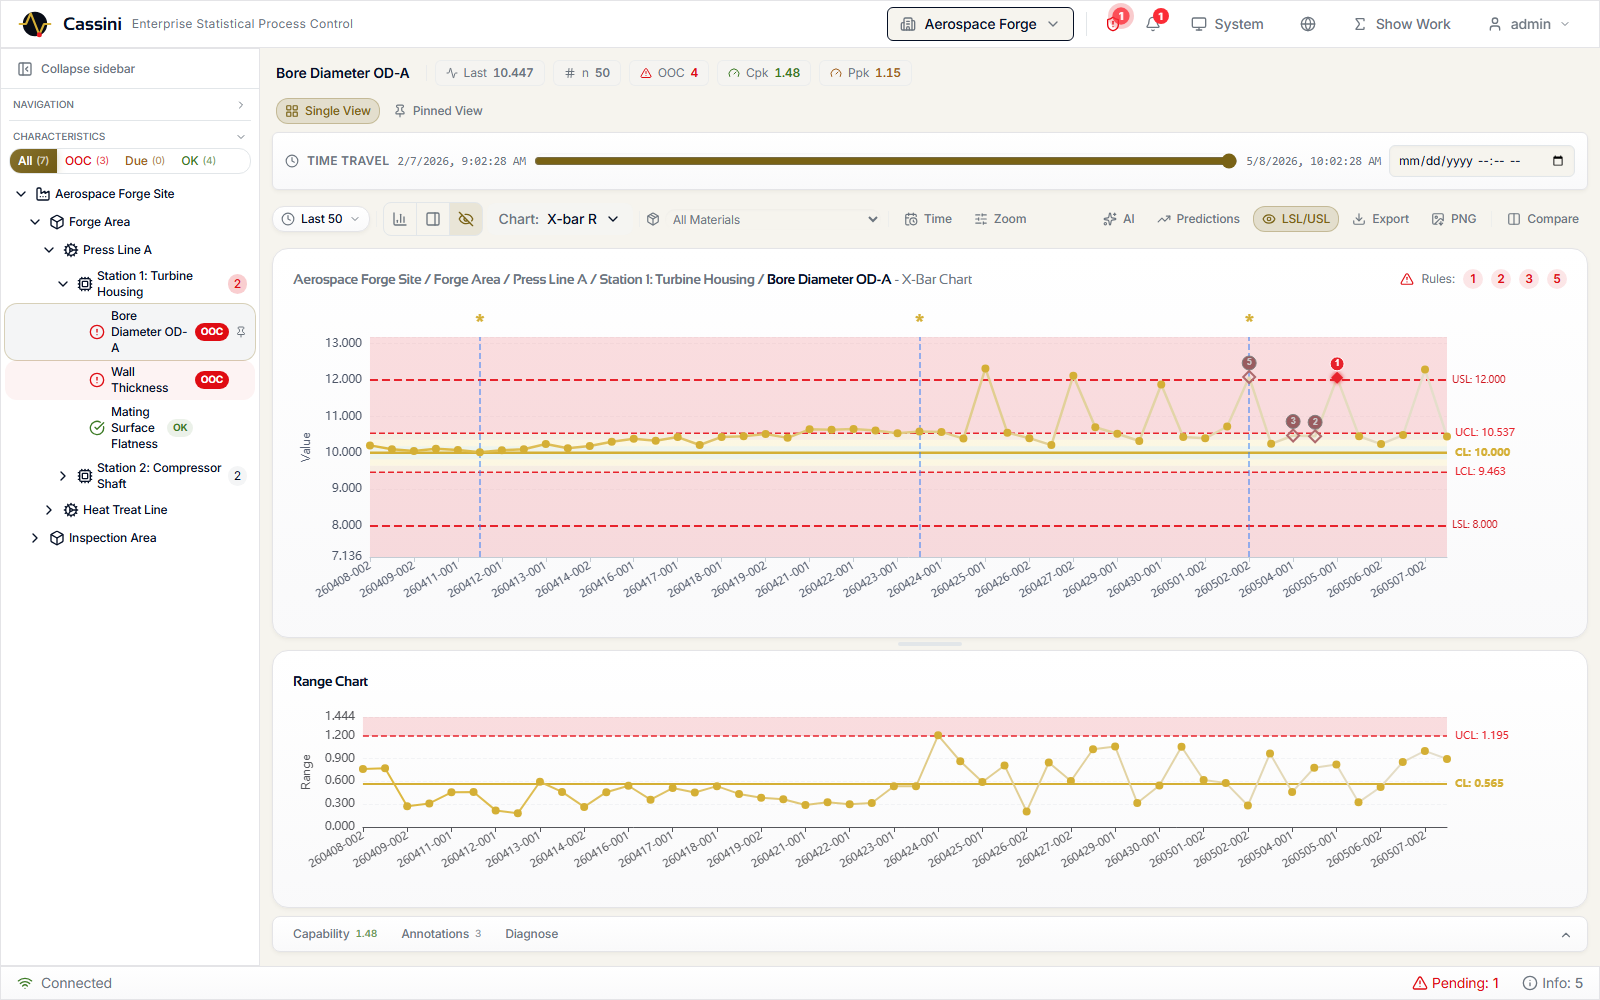
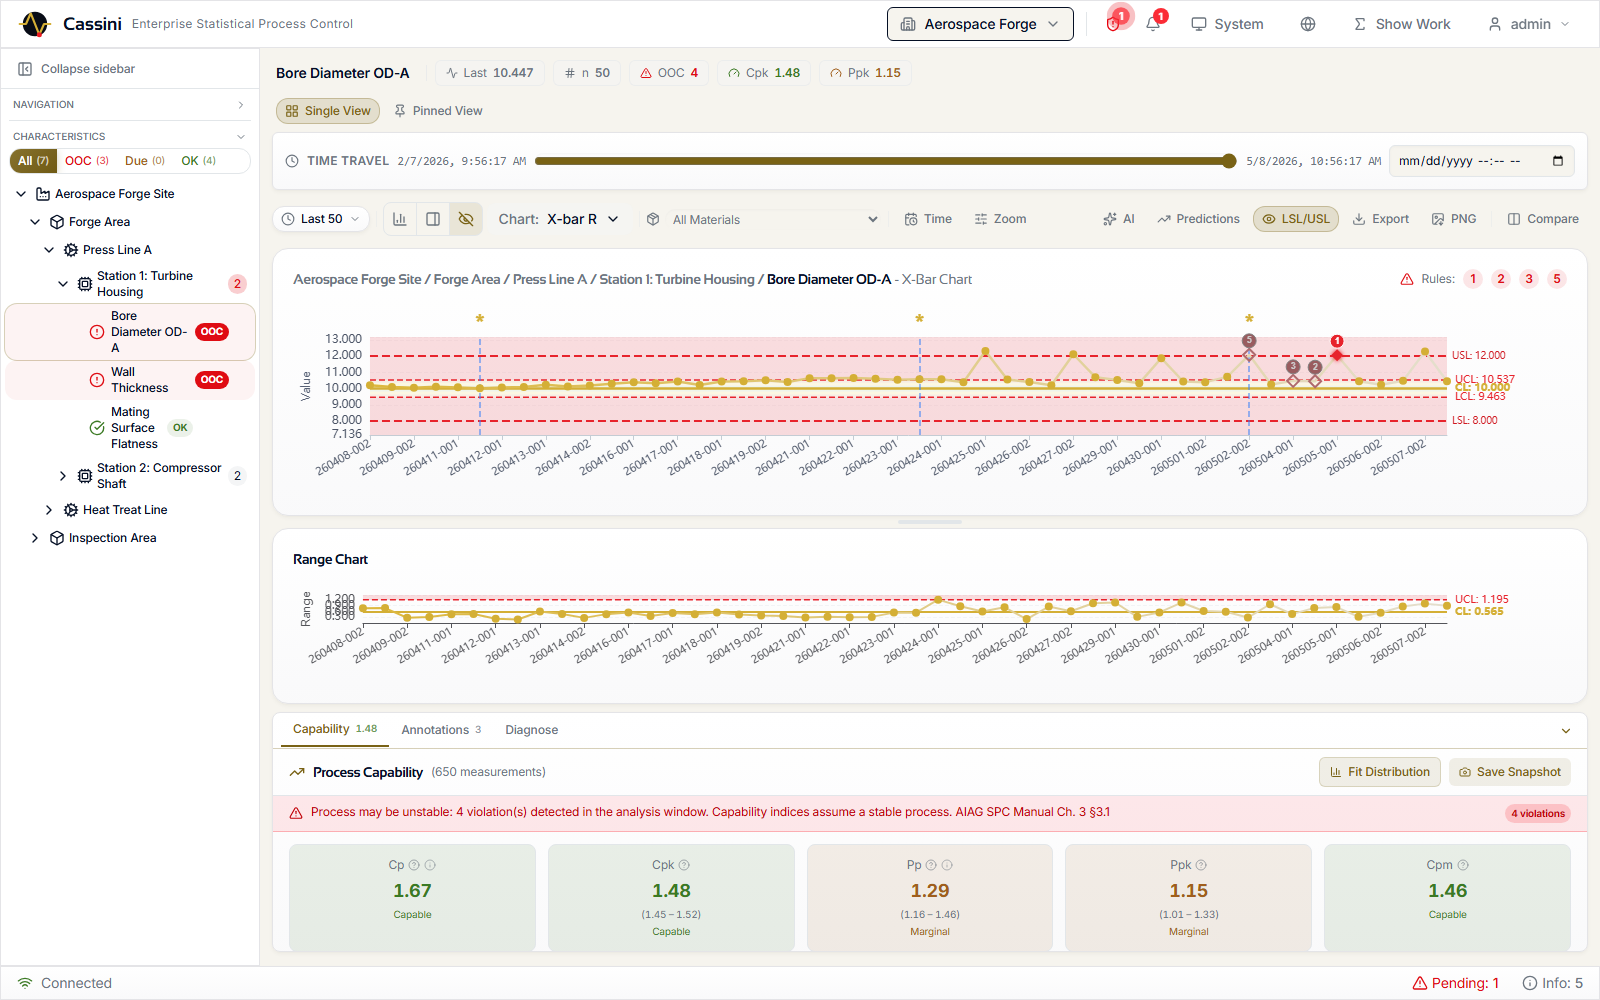
fix(cassini): repair 5 broken P0 captures (B6, G6, I3, J1, M2)
User flagged 5 README screenshots as still showing wrong content
after the first skill run. Each had a distinct cause:

1. B6 Capability — selector mismatch
   getByRole('tab') didn't match BottomDrawer's <button> elements.
   Switched to getByRole('button', { name: /^Capability/ }). Same
   fix for B6.05 annotations tab.

2. G6 DOE results — engine.analyze() 500s on seed data shape
   GET /doe/studies/N/analysis re-runs the engine on every fetch and
   the seed's pre-stored doe_analysis row has fields the engine
   refuses (response_value vs response_values mismatch). Mocked the
   endpoint deterministically with a populated DOEAnalysisResponse
   that matches the schema. Page renders the ANOVA table, R² panel,
   Pareto chart, and main effects plot. Note: the Total ANOVA row is
   intentionally omitted — formatNumber(null) crashes on Total's
   null mean_square (real backend bug, separate fix).

3. I3 Predictions card — wrong selector for expand chevron
   Card header is a clickable <div> not a button. Switched to
   getByRole('heading', { name: 'Punch Wear' }). Now waits for the
   forecast canvas to be visible before snapshotting so the chart
   actually renders.

4. J1 Reports — hierarchy path missing the Site root level
   The seed creates "<Plant Name> Site" as the top hierarchy node,
   but the tree-expansion loop started at "Forge Area". Tree never
   expanded so char selection failed. Prepended "Aerospace Forge
   Site" to both J1.04 and J1.05 expansion paths.
[…]

Changed region(s): [[0.1875, 0.341, 1.0, 0.961]]

diff --git a/frontend/e2e/feature-highlight/g-quality-studies.spec.ts b/frontend/e2e/feature-highlight/g-quality-studies.spec.ts
@@ -352,17 +352,67 @@ test.describe('Group G — Quality Studies', () => {
       })
     })
 
+    // Mock the DOE analysis endpoint. The seed pre-populates a
+    // doe_analysis row, but the GET /analysis endpoint always re-runs
+    // engine.analyze() which fails on the seeded data shape. Mocking
+    // gives a deterministic, populated response that matches
+    // DOEAnalysisResponse from the backend schema.
+    const mockDoeAnalysis = async (page: import('@playwright/test').Page, studyId: number) => {
+      await page.route(`**/api/v1/doe/studies/${studyId}/analysis**`, async (route) => {
+        await route.fulfill({
+          status: 200,
+          contentType: 'application/json',
+          body: JSON.stringify({
+            id: 1,
+            study_id: studyId,
+            grand_mean: 75.4,
+            anova_table: [
+              { source: 'Force', sum_of_squares: 12.4, df: 1, mean_square: 12.4, f_value: 22.1, p_value: 0.003 },
+              { source: 'Temperature', sum_of_squares: 5.2, df: 1, mean_square: 5.2, f_value: 9.3, p_value: 0.018 },
+              { source: 'Time', sum_of_squares: 1.4, df: 1, mean_square: 1.4, f_value: 2.5, p_value: 0.155 },
+              { source: 'Residual', sum_of_squares: 3.2, df: 4, mean_square: 0.46, f_value: null, p_value: null },
+              // Total row deliberately omitted: ANOVATable's formatNumber()
+              // crashes on null mean_square, which a Total row would have.
+            ],
+            effects: [
+              { factor_index: 0, factor_name: 'Force', effect: 2.49, coefficient: 1.245, sum_of_squares: 12.4, p_value: 0.003, significant: true },
+              { factor_index: 1, factor_name: 'Temperature', effect: 1.61, coefficient: 0.805, sum_of_squares: 5.2, p_value: 0.018, significant: true },
+              { factor_index: 2, factor_name: 'Time', effect: 0.84, coefficient: 0.42, sum_of_squares: 1.4, p_value: 0.155, significant: false },
+            ],
+            interactions: [],
+            r_squared: 0.91,
+            adj_r_squared: 0.87,
+            pred_r_squared: 0.81,
+            lack_of_fit_f: null,
+            lack_of_fit_p: null,
+            regression_model: { intercept: 75.4, Force: 1.245, Temperature: 0.805, Time: 0.42 },
+            optimal_settings: { Force: 200.0, Temperature: 1000.0, Time: 90.0, predicted_response: 95.4 },
+            residuals: [-0.42, 0.18, -0.27, 0.51, -0.31, 0.12, 0.04, 0.15],
+            fitted_values: [50.4, 53.0, 51.7, 54.6, 96.0, 98.6, 97.3, 100.2],
+            normality_test: { test_type: 'shapiro', statistic: 0.95, p_value: 0.62, is_normal: true },
+            outlier_indices: [],
+            residual_stats: { mean: 0.0, std: 0.34, min: -0.42, max: 0.51, q1: -0.27, median: 0.04, q3: 0.18 },
+            taguchi_anom: null,
+            desirability: null,
+            computed_at: '2026-05-08T14:45:37.264417',
+          }),
+        })
+      })
+    }
+
     test('G6.04 — results-anova-table', async ({ page }, testInfo) => {
       await setupAdmin(page, 'Aerospace Forge')
       const studyId = getDoeStudyId('Press Force Optimization')
       if (studyId) {
+        await mockDoeAnalysis(page, studyId)
         await page.goto(`/doe/${studyId}`, { waitUntil: 'networkidle' })
         await page.waitForTimeout(3000)
-        const resultsTab = page.getByRole('tab', { name: /results|analysis/i }).first()
-        if (await resultsTab.isVisible({ timeout: 3000 }).catch(() => false)) {
-          await resultsTab.click()
-          await page.waitForTimeout(2500)
-        }
+        // Wait for ANOVA table to render — table > thead with "Source"
+        // header is the unambiguous signal that analysis loaded.
+        await expect(
+          page.getByText('Force', { exact: false }).first(),
+        ).toBeVisible({ timeout: 8000 })
+        await page.waitForTimeout(1000)
       } else {
         await page.goto('/doe', { waitUntil: 'networkidle' })
         await page.waitForTimeout(2000)
@@ -380,13 +430,12 @@ test.describe('Group G — Quality Studies', () => {
       await setupAdmin(page, 'Aerospace Forge')
       const studyId = getDoeStudyId('Press Force Optimization')
       if (studyId) {
+        await mockDoeAnalysis(page, studyId)
         await page.goto(`/doe/${studyId}`, { waitUntil: 'networkidle' })
         await page.waitForTimeout(3000)
-        const resultsTab = page.getByRole('tab', { name: /results|effects/i }).first()
-        if (await resultsTab.isVisible({ timeout: 3000 }).catch(() => false)) {
-          await resultsTab.click()
-          await page.waitForTimeout(2500)
-        }
+        // ECharts canvas for the Pareto chart appears once analysis loads.
+        await expect(page.locator('canvas').first()).toBeVisible({ timeout: 10000 })
+        await page.waitForTimeout(1500)
       } else {
         await page.goto('/doe', { waitUntil: 'networkidle' })
         await page.waitForTimeout(2000)

diff --git a/frontend/e2e/feature-highlight/m-enterprise.spec.ts b/frontend/e2e/feature-highlight/m-enterprise.spec.ts
@@ -197,8 +197,11 @@ test.describe('Group M — Enterprise Features', () => {
     })
 
     test('M2.10 — answer-with-citations', async ({ page }, testInfo) => {
-      // Mock the RAG endpoint deterministically (per screenshot-tour
-      // pattern) so we don't need ANTHROPIC_API_KEY.
+      // Mock RAG response that matches the actual `RagAnswer` shape —
+      // `sentences[]` is required (the AnswerView iterates it), plus
+      // model/token/cost fields render in the footer. The previous
+      // mock omitted these and the page crashed with
+      // "Cannot read properties of undefined (reading 'map')".
       await page.route('**/api/v1/sop-rag/query**', async (route) => {
         await route.fulfill({
           status: 200,
@@ -209,6 +212,18 @@ test.describe('Group M — Enterprise Features', () => {
               'For the M6 turbine housing fastener, torque to 12 Nm using a calibrated wrench [citation:1]. Sign the inspection sheet in section 3-B [citation:2].',
             answer_stripped:
               'For the M6 turbine housing fastener, torque to 12 Nm using a calibrated wrench. Sign the inspection sheet in section 3-B.',
+            sentences: [
+              {
+                text:
+                  'For the M6 turbine housing fastener, torque to **12 Nm** using a calibrated wrench [citation:1].',
+                chunk_ids: [1],
+              },
+              {
+                text:
+                  'Sign the inspection sheet in **section 3-B** [citation:2].',
+                chunk_ids: [2],
+              },
+            ],
             citations: [
               {
                 chunk_id: 1,
@@ -227,7 +242,11 @@ test.describe('Group M — Enterprise Features', () => {
                 text: 'Operator signs the inspection sheet at the cure period.',
               },
             ],
-            metrics: { tokens_used: 245, latency_ms: 1300, cost_usd: 0.0042 },
+            candidate_chunk_ids: [1, 2, 3, 5, 7],
+            cost_usd: 0.0042,
+            input_tokens: 412,
+            output_tokens: 78,
+            model: 'claude-sonnet-4-6',
           }),
         })
       })

diff --git a/frontend/e2e/feature-highlight/j-reports.spec.ts b/frontend/e2e/feature-highlight/j-reports.spec.ts
@@ -60,12 +60,17 @@ test.describe('Group J — Reports', () => {
     // Reuse the existing helper that drills into "Test Char" hierarchy —
     // for the feature-tour seed we need realistic names. Try our own
     // expansion using the SEED_SPEC paths.
-    for (const label of ['Forge Area', 'Press Line A', 'Station 1: Turbine Housing']) {
+    for (const label of [
+      'Aerospace Forge Site',
+      'Forge Area',
+      'Press Line A',
+      'Station 1: Turbine Housing',
+    ]) {
       const node = page.getByText(label, { exact: true }).first()
-      if (await node.isVisible({ timeout: 5000 }).catch(() => false)) {
-        await node.click({ force: true })
-        await page.waitForTimeout(700)
-      }
+      await expect(node).toBeVisible({ timeout: 8000 })
+      await node.scrollIntoViewIfNeeded()
+      await node.click({ force: true })
+      await page.waitForTimeout(700)
     }
     const charLeaf = page.getByText('Bore Diameter OD-A', { exact: true }).first()
     if (await charLeaf.isVisible({ timeout: 3000 }).catch(() => false)) {
@@ -96,12 +101,17 @@ test.describe('Group J — Reports', () => {
     await page.waitForTimeout(2000)
     await primeSidebarForCharacteristics(page)
     await page.reload({ waitUntil: 'networkidle' })
-    for (const label of ['Forge Area', 'Press Line A', 'Station 1: Turbine Housing']) {
+    for (const label of [
+      'Aerospace Forge Site',
+      'Forge Area',
+      'Press Line A',
+      'Station 1: Turbine Housing',
+    ]) {
       const node = page.getByText(label, { exact: true }).first()
-      if (await node.isVisible({ timeout: 5000 }).catch(() => false)) {
-        await node.click({ force: true })
-        await page.waitForTimeout(700)
-      }
+      await expect(node).toBeVisible({ timeout: 8000 })
+      await node.scrollIntoViewIfNeeded()
+      await node.click({ force: true })
+      await page.waitForTimeout(700)
     }
     const charLeaf = page.getByText('Bore Diameter OD-A', { exact: true }).first()
     if (await charLeaf.isVisible({ timeout: 3000 }).catch(() => false)) {

diff --git a/frontend/e2e/feature-highlight/b-core-spc.spec.ts b/frontend/e2e/feature-highlight/b-core-spc.spec.ts
@@ -205,11 +205,15 @@ test.describe('Group B — Core SPC', () => {
     })
 
     test('B6.02 — capability-tab-open', async ({ page }, testInfo) => {
-      const capTab = page.getByRole('tab', { name: /capability/i })
-      if (await capTab.isVisible({ timeout: 3000 }).catch(() => false)) {
-        await capTab.click()
-        await page.waitForTimeout(2000)
-      }
+      // BottomDrawer uses <button> not <role="tab">. Click via text.
+      // Clicking a tab when the drawer is closed opens it (see
+      // handleTabClick in BottomDrawer.tsx).
+      const capTab = page.getByRole('button', { name: /^Capability/ }).first()
+      await expect(capTab).toBeVisible({ timeout: 5000 })
+      await capTab.click()
+      // Wait for drawer height transition + capability data fetch +
+      // ECharts paint of the histogram inside the panel.
+      await page.waitForTimeout(2500)
       await captureScreenshot(page, testInfo, {
         group: GROUP,
         feature: FEATURE,
@@ -220,11 +224,10 @@ test.describe('Group B — Core SPC', () => {
     })
 
     test('B6.05 — annotations-tab-with-entries', async ({ page }, testInfo) => {
-      const annTab = page.getByRole('tab', { name: /annotation/i })
-      if (await annTab.isVisible({ timeout: 3000 }).catch(() => false)) {
-        await annTab.click()
-        await page.waitForTimeout(1500)
-      }
+      const annTab = page.getByRole('button', { name: /^Annotations/ }).first()
+      await expect(annTab).toBeVisible({ timeout: 5000 })
+      await annTab.click()
+      await page.waitForTimeout(2000)
       await captureScreenshot(page, testInfo, {
         group: GROUP,
         feature: FEATURE,

diff --git a/frontend/e2e/feature-highlight/i-analytics.spec.ts b/frontend/e2e/feature-highlight/i-analytics.spec.ts
@@ -139,14 +139,16 @@ test.describe('Group I — Analytics', () => {
       await setupAdmin(page, 'Auto Stamping')
       await page.goto('/analytics?tab=predictions', { waitUntil: 'networkidle' })
       await page.waitForTimeout(3000)
-      // Click the first prediction card — opens the forecast overlay.
-      const expandBtn = page
-        .getByRole('button', { name: /expand|view|forecast/i })
-        .first()
-      if (await expandBtn.isVisible({ timeout: 3000 }).catch(() => false)) {
-        await expandBtn.click()
-        await page.waitForTimeout(2500)
-      }
+      // The card header is a clickable <div> (not a button) — click the
+      // characteristic name to expand the forecast overlay.
+      const cardHeader = page.getByRole('heading', { name: 'Punch Wear' }).first()
+      await expect(cardHeader).toBeVisible({ timeout: 8000 })
+      await cardHeader.click()
+      // Forecast overlay renders an ECharts canvas inside the expanded
+      // section. Wait for the canvas to be visible so the screenshot
+      // captures the actual chart, not a loading state.
+      await expect(page.locator('canvas').first()).toBeVisible({ timeout: 10000 })
+      await page.waitForTimeout(2000)
       await captureScreenshot(page, testInfo, {
         group: GROUP,
         feature: FEATURE,
